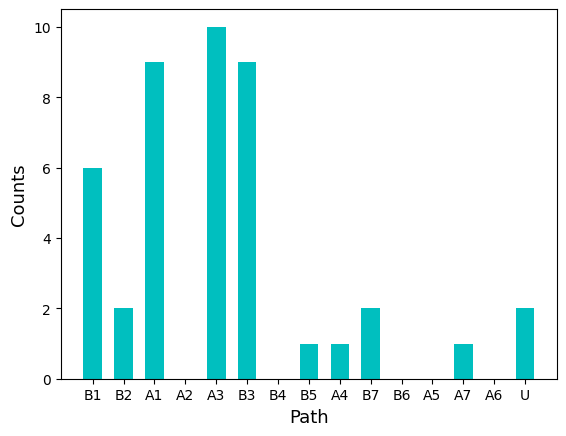
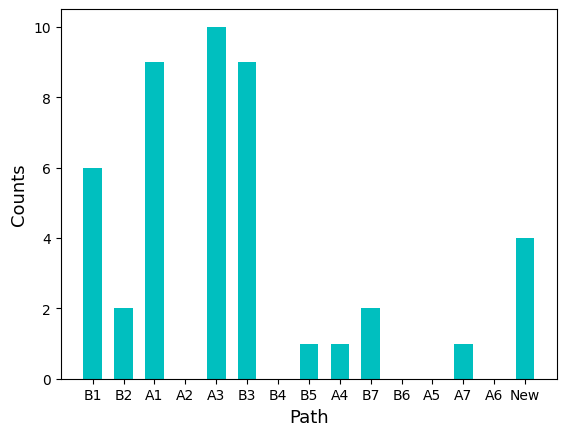
cmd

Changed region(s): [[0.9011, 0.5367, 0.9611, 0.7156], [0.9011, 0.8945, 0.9611, 0.9243]]

diff --git a/README.md b/README.md
@@ -125,11 +125,15 @@ traj.check_unique_vac()
 ```
 If all transient vacancies are successfully removed, the message 'vacancy is unique.' will be displayed.
 
+<br/>
+
 ### Appendix 1: Save POSCAR
 One can get a POSCAR file of a certain step with `save_poscar` method.
 ```ruby
 traj.save_poscar(step)
 ``` 
+
+<br/>
 
 
 ### Appendix 2: Save real trajectory
@@ -138,13 +142,13 @@ One can get real trajectory (not projected on the lattice points) of each atoms 
 ```ruby
 traj.save_traj() 
 ```
-The trajectory of each atom will be saved in `./traj` directory. Below is an example of the outputs:
+The trajectory of each atom will be saved in `./traj` directory. Below is an example of the outputs, where the red O and X markers represent the initial and final position of the atom, respectively.
+
 <div align=center>
 <p>
     <img src="./imgs/traj_O7.png" width="550" height="412" /> 
 </p>
 </div>
-The red O and X markers represent the initial and final position of the atom, respectively.
 
 ---
 ## How to analyze the hopping path
@@ -247,7 +251,26 @@ maximum Ea : 2.01 eV
 </p>
 </div>
 
-Note that 7 unknown paths were observed. The main cause of the unknown path is **multi-path issue**. For example, below is snapshot at step 246, showing that two sequential hopping, 19(purple) ➔ 25(green) and 25(green) ➔ 1(yellow), take place during one step. However, since VacHopPy determines the displacement of vacancy in step-wise manner, the code interprets the vacancy as moving directly 19(pulple) ➔ 1(yellow).
+Note that 7 unknown paths were observed. The unknown paths can appear due to two main reasons: 
+
+ 1. Existence of a new hopping path.
+
+ By examining the unknown paths, we found a new hopping path whose distance and barrier are 3.6471 Å and 3.94 eV. After adding the new path, the user can see the counts of unknown paths decreased from 7 to 5, while the counts of the new path became 2.
+ ```ruby
+ anal_hfo2.add_path('New', 'cn4', 'cn4', 3.6471, 3.94)
+ anal_hfo2.print_summary(sort=True)
+ ```
+
+<div align=center>
+<p>
+    <img src="./imgs/counts_newpath.png" width="550" height="412" /> 
+</p>
+</div>
+ 
+
+ 2. the Multi-path issue.
+
+ As an example for the multi-path issue, below is a snapshot at step 246, showing that two sequential hopping, 19(purple) ➔ 25(green) and 25(green) ➔ 1(yellow), take place during one step. However, since VacHopPy determines the displacement of vacancy in step-wise manner, the code interprets the vacancy as moving directly 19(pulple) ➔ 1(yellow).
 
 <div align=center>
 <p>
@@ -257,28 +280,23 @@ Note that 7 unknown paths were observed. The main cause of the unknown path is *
 
 ### Correction for multi-path issue
 
-The multi-path issue can be addressed by using `Analyze.unwrap_path()` method, which recursively decomposes the multi-paths. This method can smartly find a possible path of vacancy by considering both connectivity and direction of arrows.
+The multi-path issue can be addressed by using `Analyze.unwrap_path()` method, which recursively decomposes the multi-paths. This method can smartly find a possible path of vacancy by considering both connectivity and direction of arrows. By executing below commands, the user can see that unknown paths disapear and the total counts increas from 42 to 45.
 
 ```ruby
 anal_hfo2.unwrap_path()
 anal_hfo2.print_summary()
 ```
 
-By executing this commands, the user can obtain renewed explanations and a bar graph.
-
 ```
-unknown path exist.
-step: 246 247 
-
+no unknown path exist.
 xdatcar file : data/XDATCAR_01
 poscar_per file: data/POSCAR_novac
 
-total counts : 43
+total counts : 45
 hopping sequence :
-A3 A3 A3 A3 A1 B1 A1 B2 B2 B1 A3 A1 B1 A3 A3 A4 A1 B7 A1 B5 A3 A3 A3 A1 B1 A1 B1 A1 B3 B3 B3 B3 B3 B3 unknown B3 B3 unknown B7 A7 B1 A1 B3 
-maximum Ea : 2.01 eV
+A3 A3 A3 A3 A1 B1 A1 B2 B2 B1 A3 A1 B1 A3 A3 A4 A1 B7 A1 B5 A3 A3 A3 A1 New New B1 A1 B1 A1 B3 B3 B3 B3 B3 B3 New B3 B3 New B7 A7 B1 A1 B3 
+maximum Ea : 3.94 eV
 ```
-
 
 <div align=center>
 <p>
@@ -286,4 +304,10 @@ maximum Ea : 2.01 eV
 </p>
 </div>
 
-The number of unknown paths was reduced from 7 to 2, and the total hopping counts increased from 42 to 43 (125, 127 unknown path가 사라짐. code 수정 필요). 
+**New path 정의 안할 시 125, 127 unknown path가 사라지는 오류 확인. code 수정 필요** 
+
+---
+## Fingerprint
+
+While the `vachoppy.trajectory` module aims to analyze systems with a maintained lattice during the MD simulation, some users may want to study changes in the lattice during the simulation.
+
